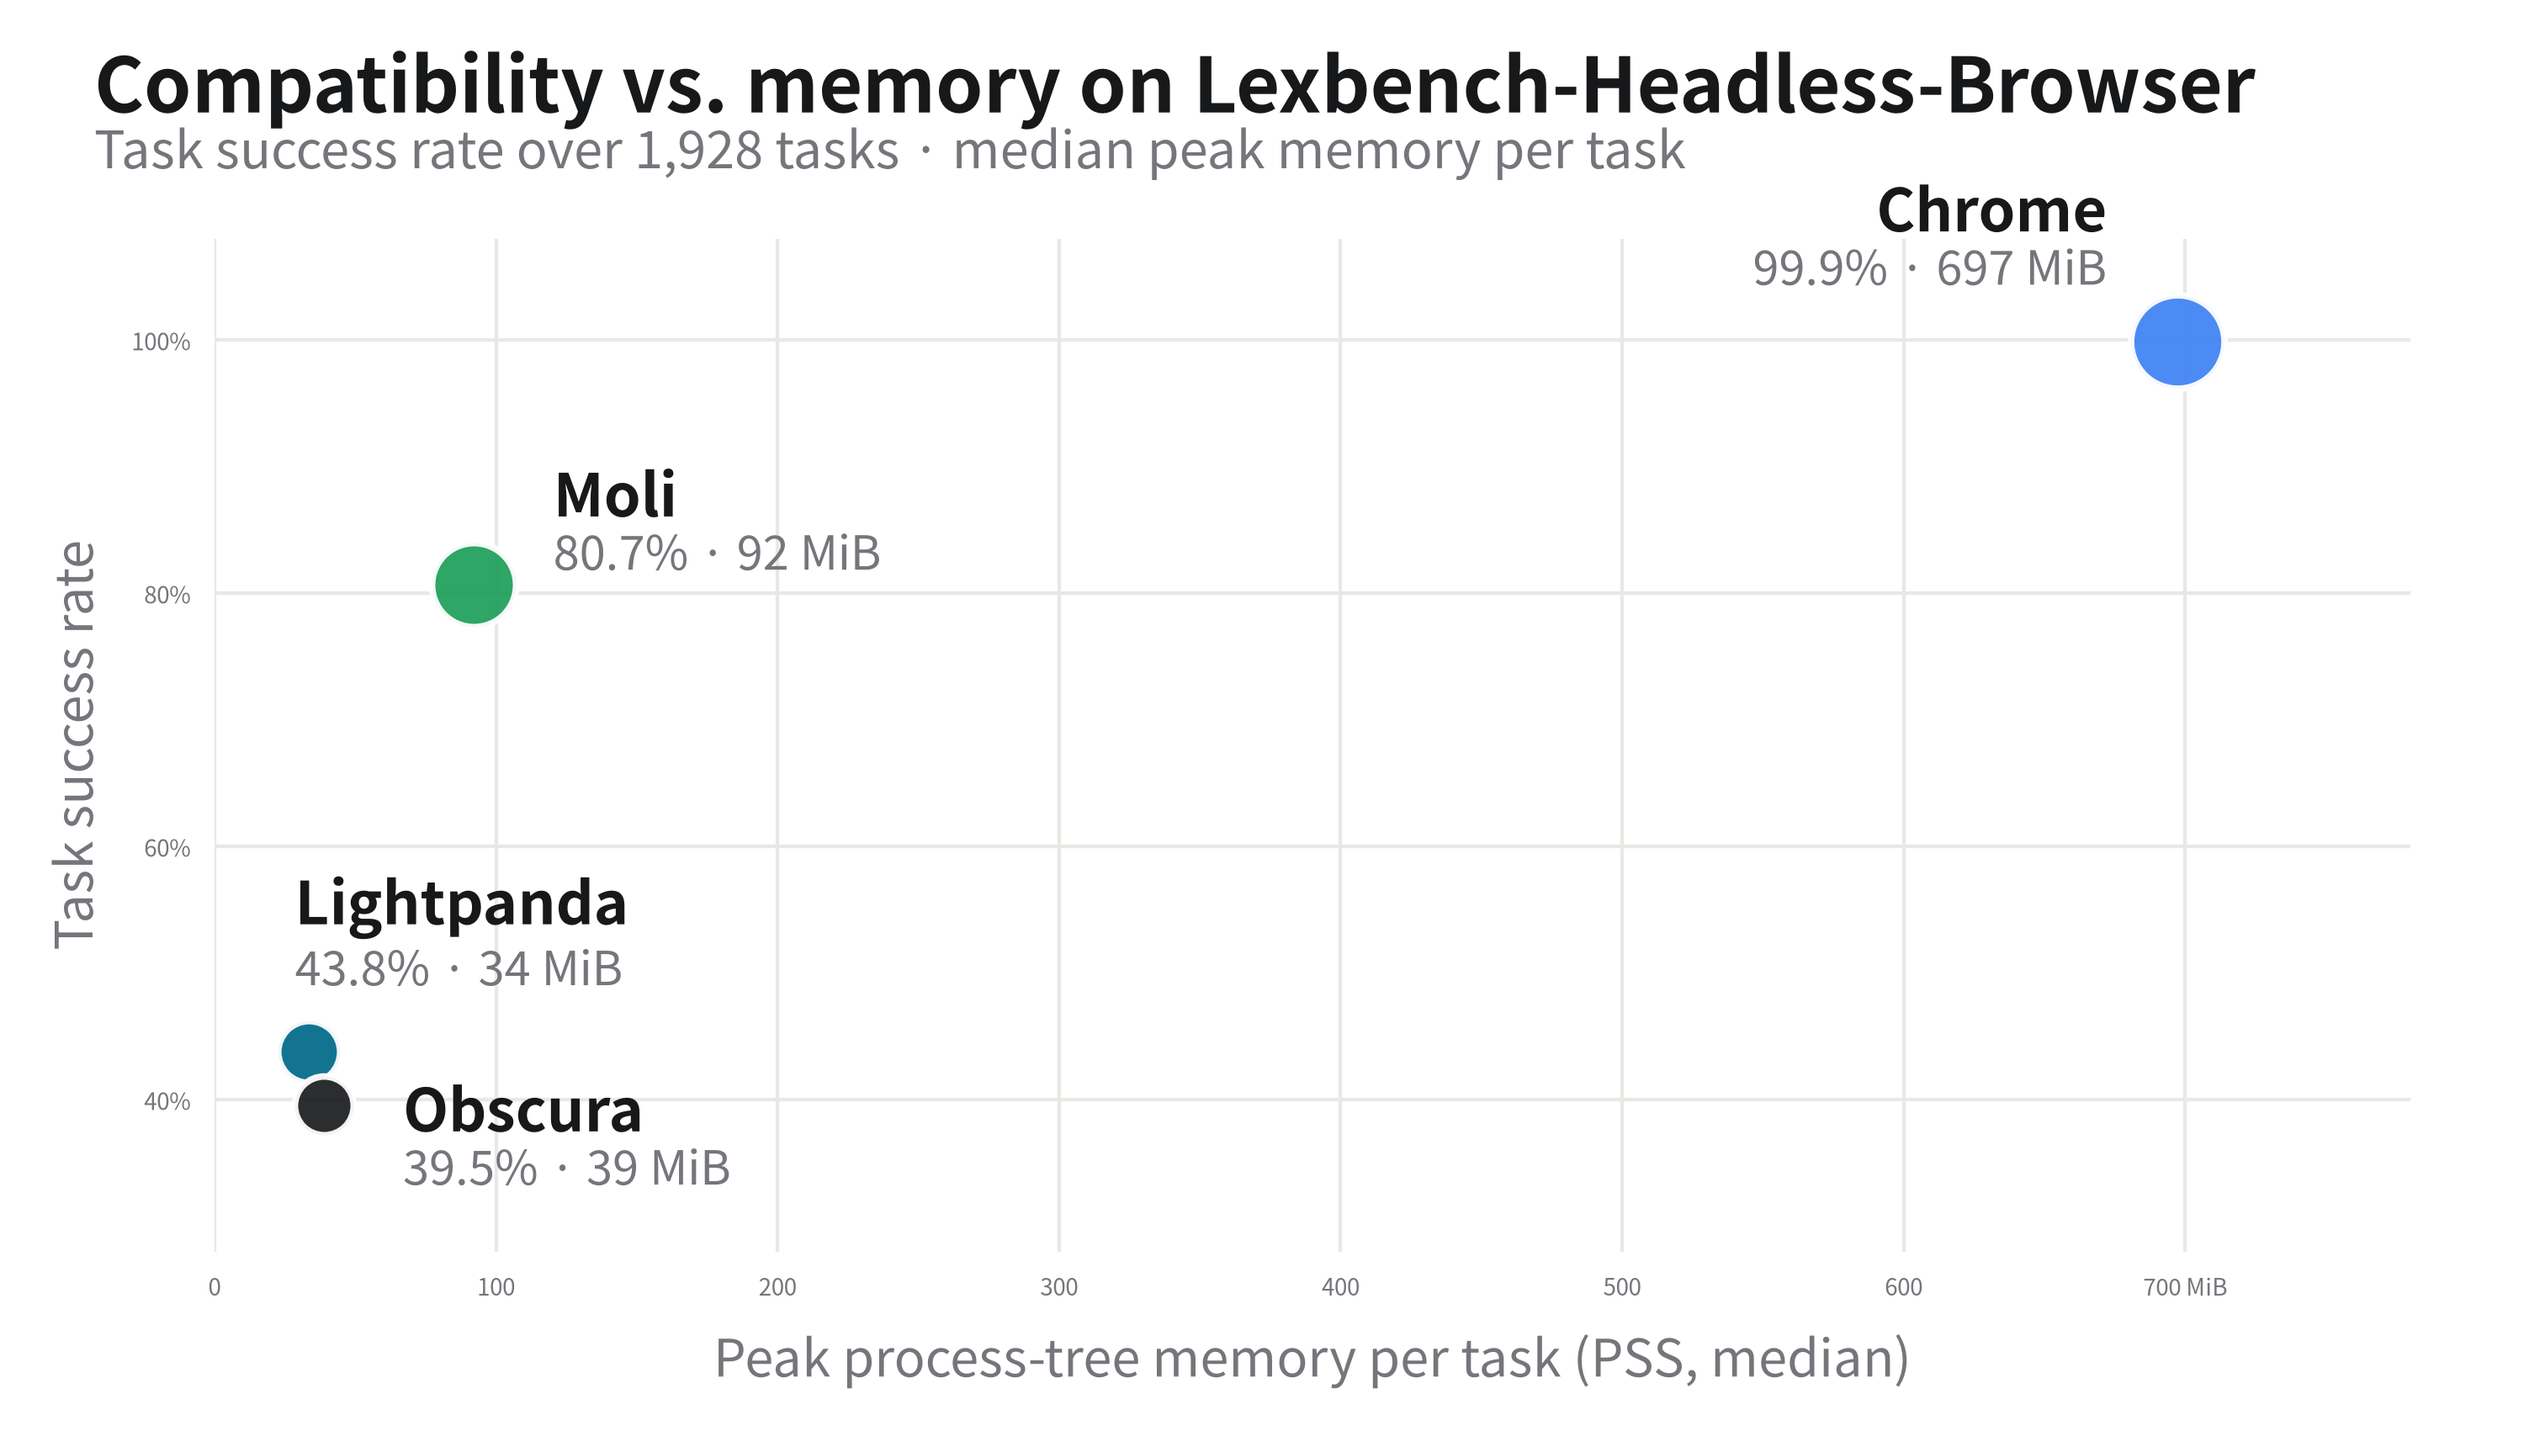
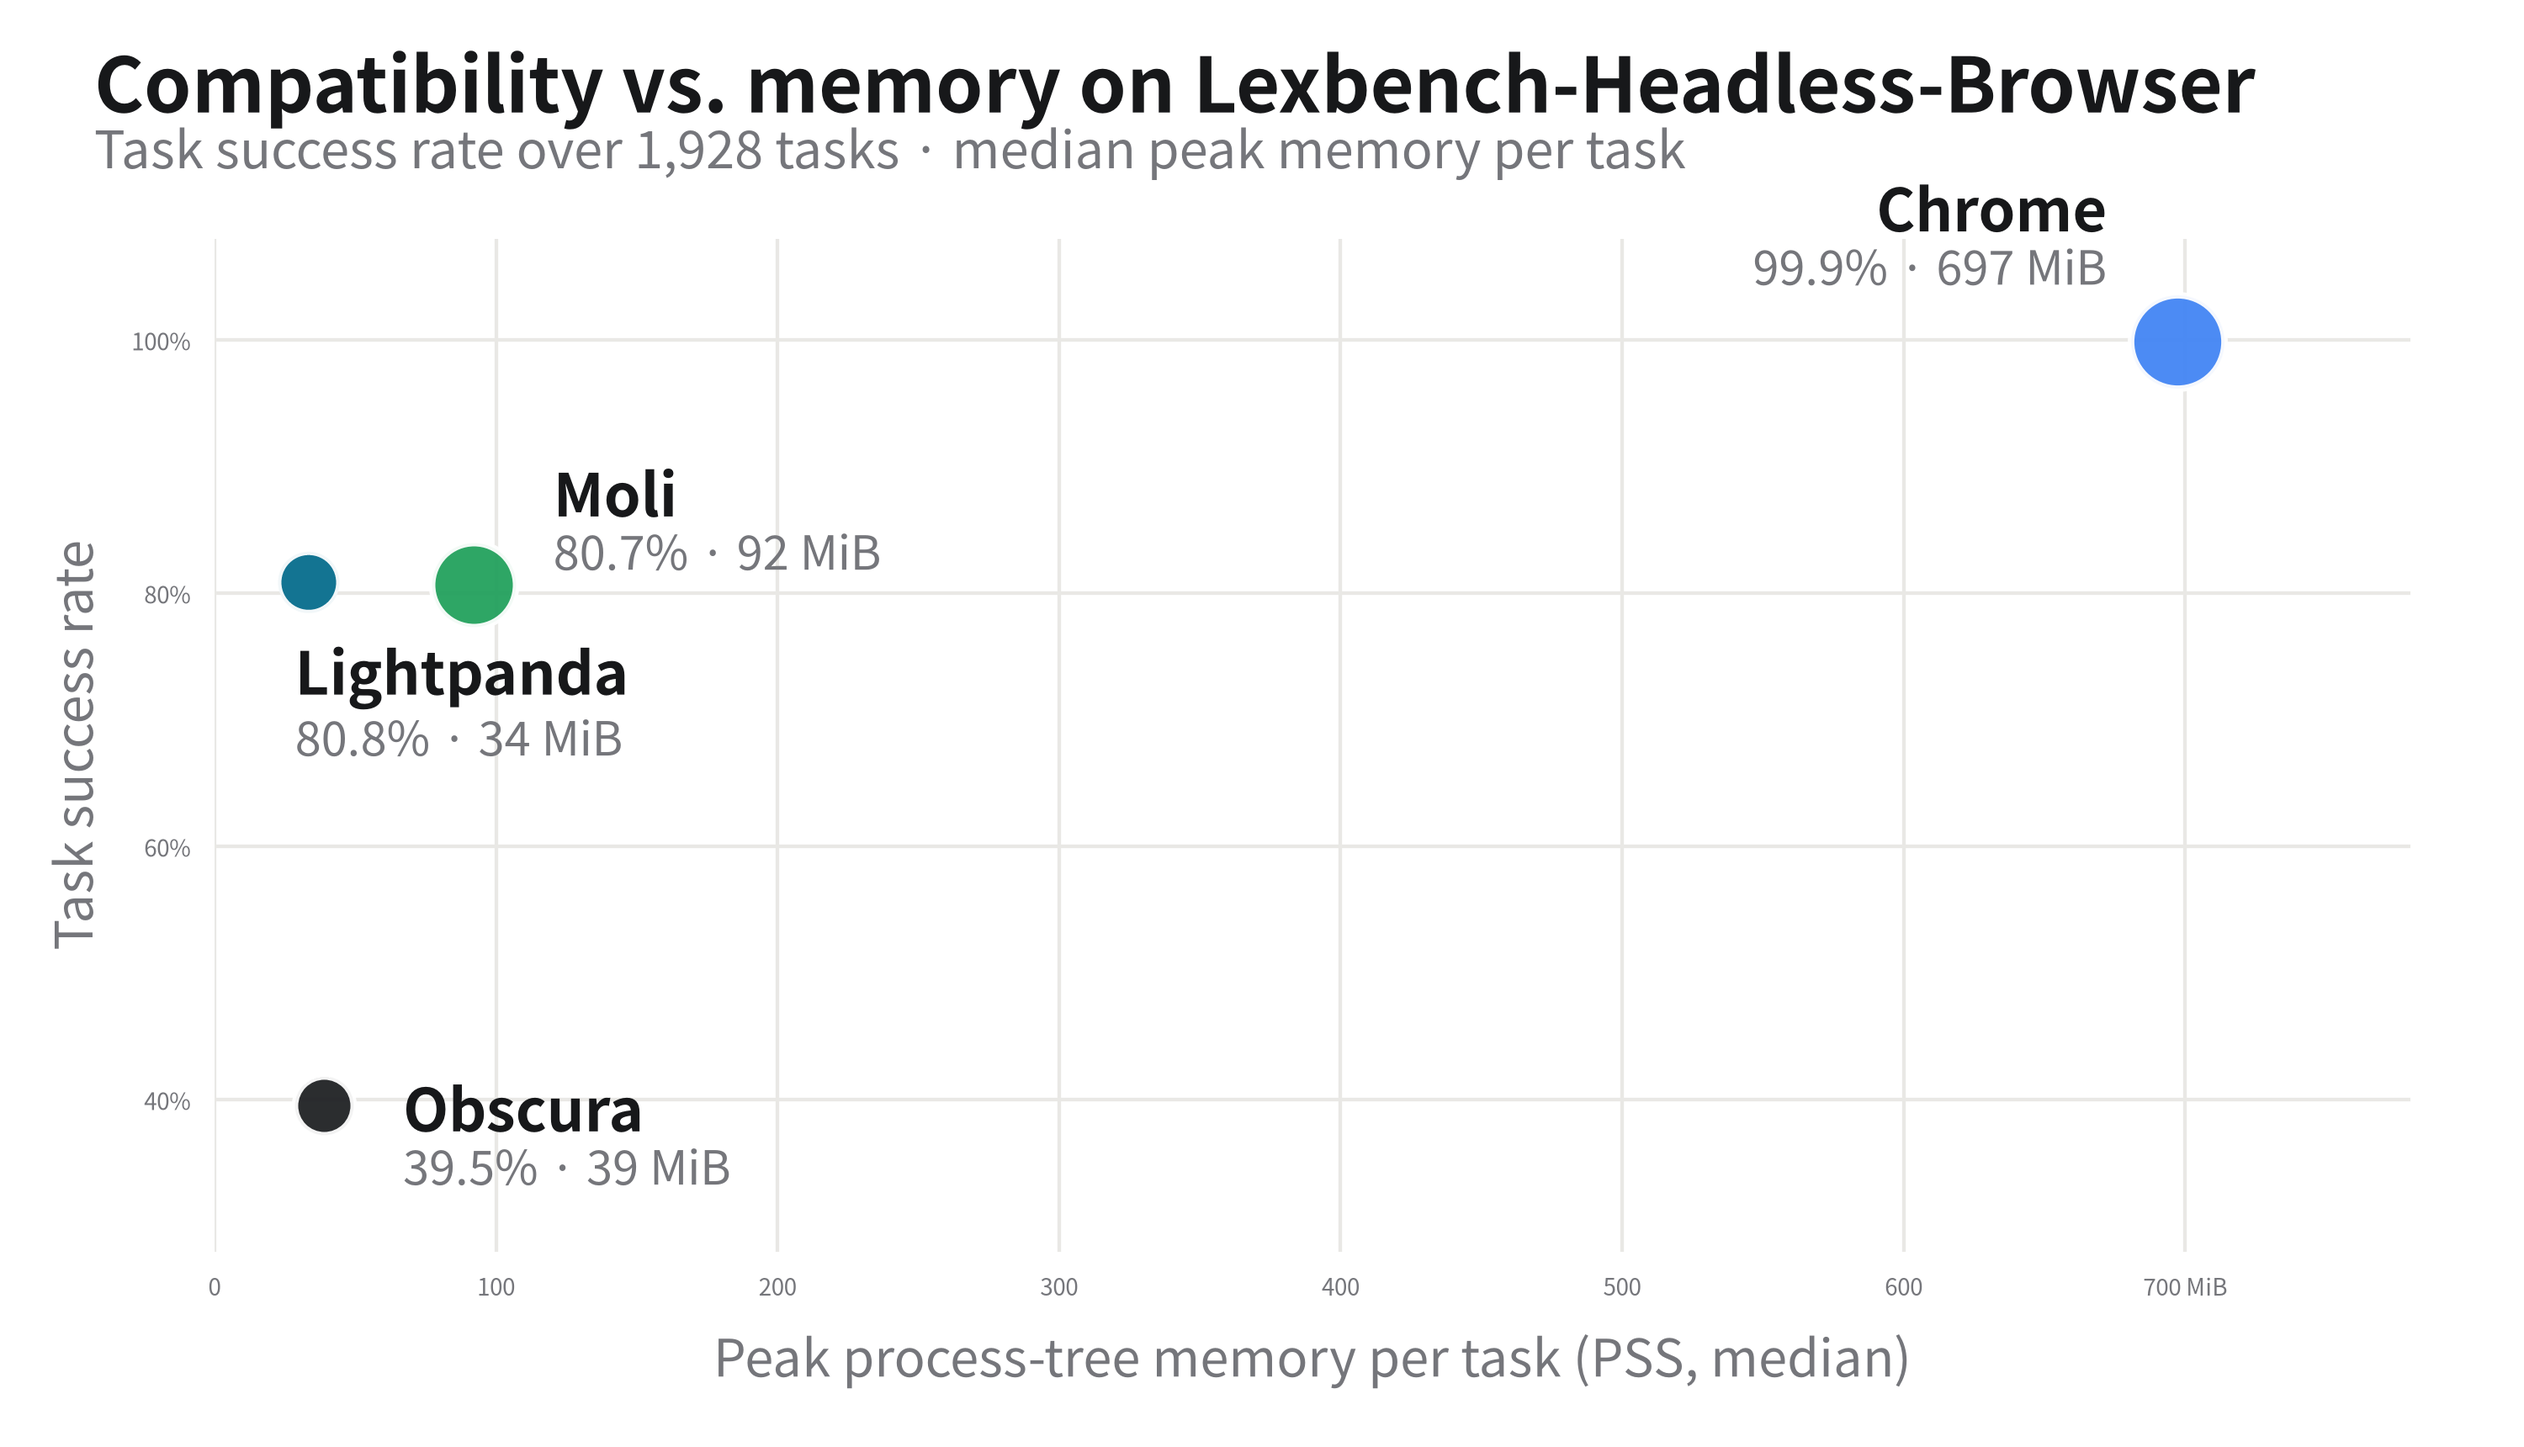
update README according to new Lightpanda results

Changed region(s): [[0.093, 0.3698, 0.248, 0.5238], [0.124, 0.6163, 0.248, 0.6779], [0.093, 0.7087, 0.155, 0.7395]]

diff --git a/README.md b/README.md
@@ -39,7 +39,7 @@ Lexbench-Headless-Browser turns that premise into something testable: every task
 <div align="center">
   <picture>
     <source media="(prefers-color-scheme: dark)" srcset="docs/assets/four-engine-overview-dark.png">
-    <img alt="Task success rate of four headless browsers over 1,928 tasks: Chrome 99.9%, Moli 80.7%, Lightpanda 43.8%, Obscura 39.5%" src="docs/assets/four-engine-overview-light.png" width="100%">
+    <img alt="Task success rate of four headless browsers over 1,928 tasks: Chrome 99.9%, Lightpanda 80.8%, Moli 80.7%, Obscura 39.5%" src="docs/assets/four-engine-overview-light.png" width="100%">
   </picture>
 </div>
 
@@ -48,8 +48,8 @@ Lexbench-Headless-Browser turns that premise into something testable: every task
 | Engine | Version | Passed | Task success rate |
 |:---|:---|---:|---:|
 | [Chrome for Testing](https://googlechromelabs.github.io/chrome-for-testing/) | 151.0.7922.47 | 1,926 / 1,928 | **99.90%** |
+| [Lightpanda](https://github.com/lightpanda-io/browser) | 1.1.0-nightly.10552+dd2cd5d7f | 1,558 / 1,928 | **80.81%** |
 | [Moli](https://github.com/lexmount/moli) | 0.1.1 | 1,556 / 1,928 | **80.71%** |
-| [Lightpanda](https://github.com/lightpanda-io/browser) | 1.0.0-dev.321+b04c99a9 | 845 / 1,928 | **43.83%** |
 | [Obscura](https://github.com/h4ckf0r0day/obscura) | 0.1.11 | 762 / 1,928 | **39.52%** |
 
 </div>
@@ -60,7 +60,7 @@ Lexbench-Headless-Browser turns that premise into something testable: every task
 <div align="center">
   <picture>
     <source media="(prefers-color-scheme: dark)" srcset="docs/assets/five-engine-caliber-b-dark.png">
-    <img alt="Task success rate of five headless browsers over 1,308 comparable tasks: Chrome 99.8%, Moli 81.9%, Kitesurf 62.1%, Lightpanda 53.3%, Obscura 44.9%" src="docs/assets/five-engine-caliber-b-light.png" width="100%">
+    <img alt="Task success rate of five headless browsers over 1,308 comparable tasks: Chrome 99.8%, Moli 81.9%, Lightpanda 75.8%, Kitesurf 62.1%, Obscura 44.9%" src="docs/assets/five-engine-caliber-b-light.png" width="100%">
   </picture>
 </div>
 
@@ -70,8 +70,8 @@ Lexbench-Headless-Browser turns that premise into something testable: every task
 |:---|---:|
 | [Chrome for Testing](https://googlechromelabs.github.io/chrome-for-testing/) | 1,306 / 1,308 · **99.85%** |
 | [Moli](https://github.com/lexmount/moli) | 1,071 / 1,308 · **81.88%** |
+| [Lightpanda](https://github.com/lightpanda-io/browser) | 992 / 1,308 · **75.84%** |
 | [Kitesurf](https://blog.cloudflare.com/kitesurf/) (remote) | 812 / 1,308 · **62.08%** |
-| [Lightpanda](https://github.com/lightpanda-io/browser) | 697 / 1,308 · **53.29%** |
 | [Obscura](https://github.com/h4ckf0r0day/obscura) | 587 / 1,308 · **44.88%** |
 
 </div>
@@ -94,7 +94,7 @@ Because observing a process can itself distort the numbers, the measurement is a
 <div align="center">
   <picture>
     <source media="(prefers-color-scheme: dark)" srcset="docs/assets/efficiency-map-dark.png">
-    <img alt="Task success rate plotted against median peak memory per task: Chrome at 99.9% and 697 MiB, Moli at 80.7% and 92 MiB, Lightpanda at 43.8% and 34 MiB, Obscura at 39.5% and 39 MiB" src="docs/assets/efficiency-map-light.png" width="100%">
+    <img alt="Task success rate plotted against median peak memory per task: Chrome at 99.9% and 697 MiB, Moli at 80.7% and 92 MiB, Lightpanda at 80.8% and 34 MiB, Obscura at 39.5% and 39 MiB" src="docs/assets/efficiency-map-light.png" width="100%">
   </picture>
 </div>
 
